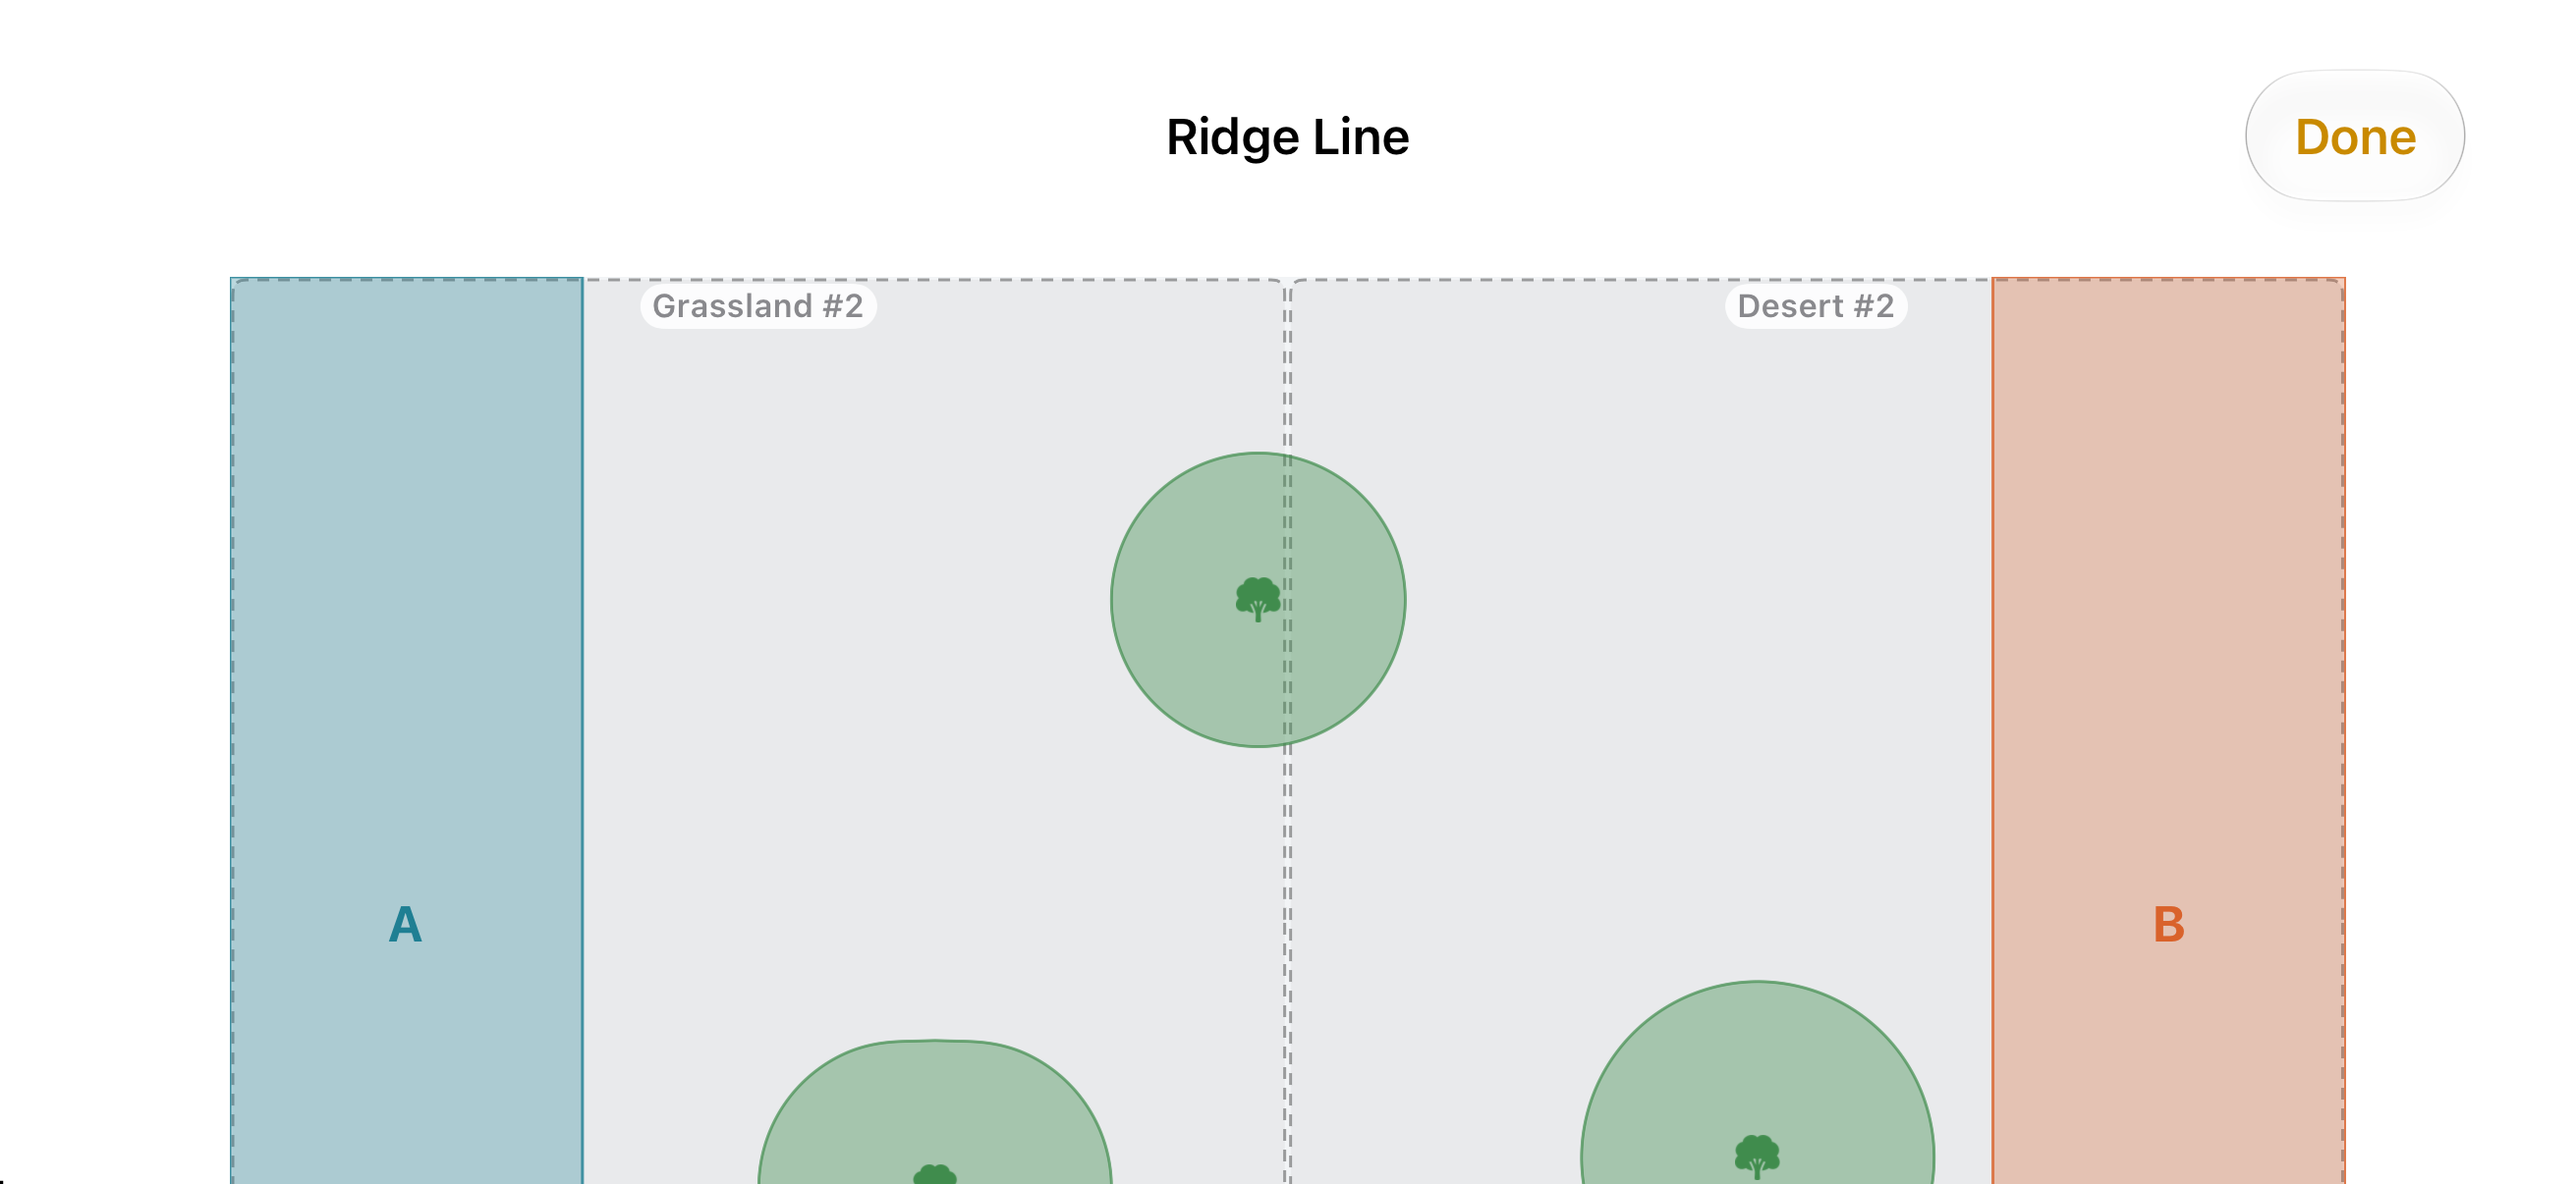
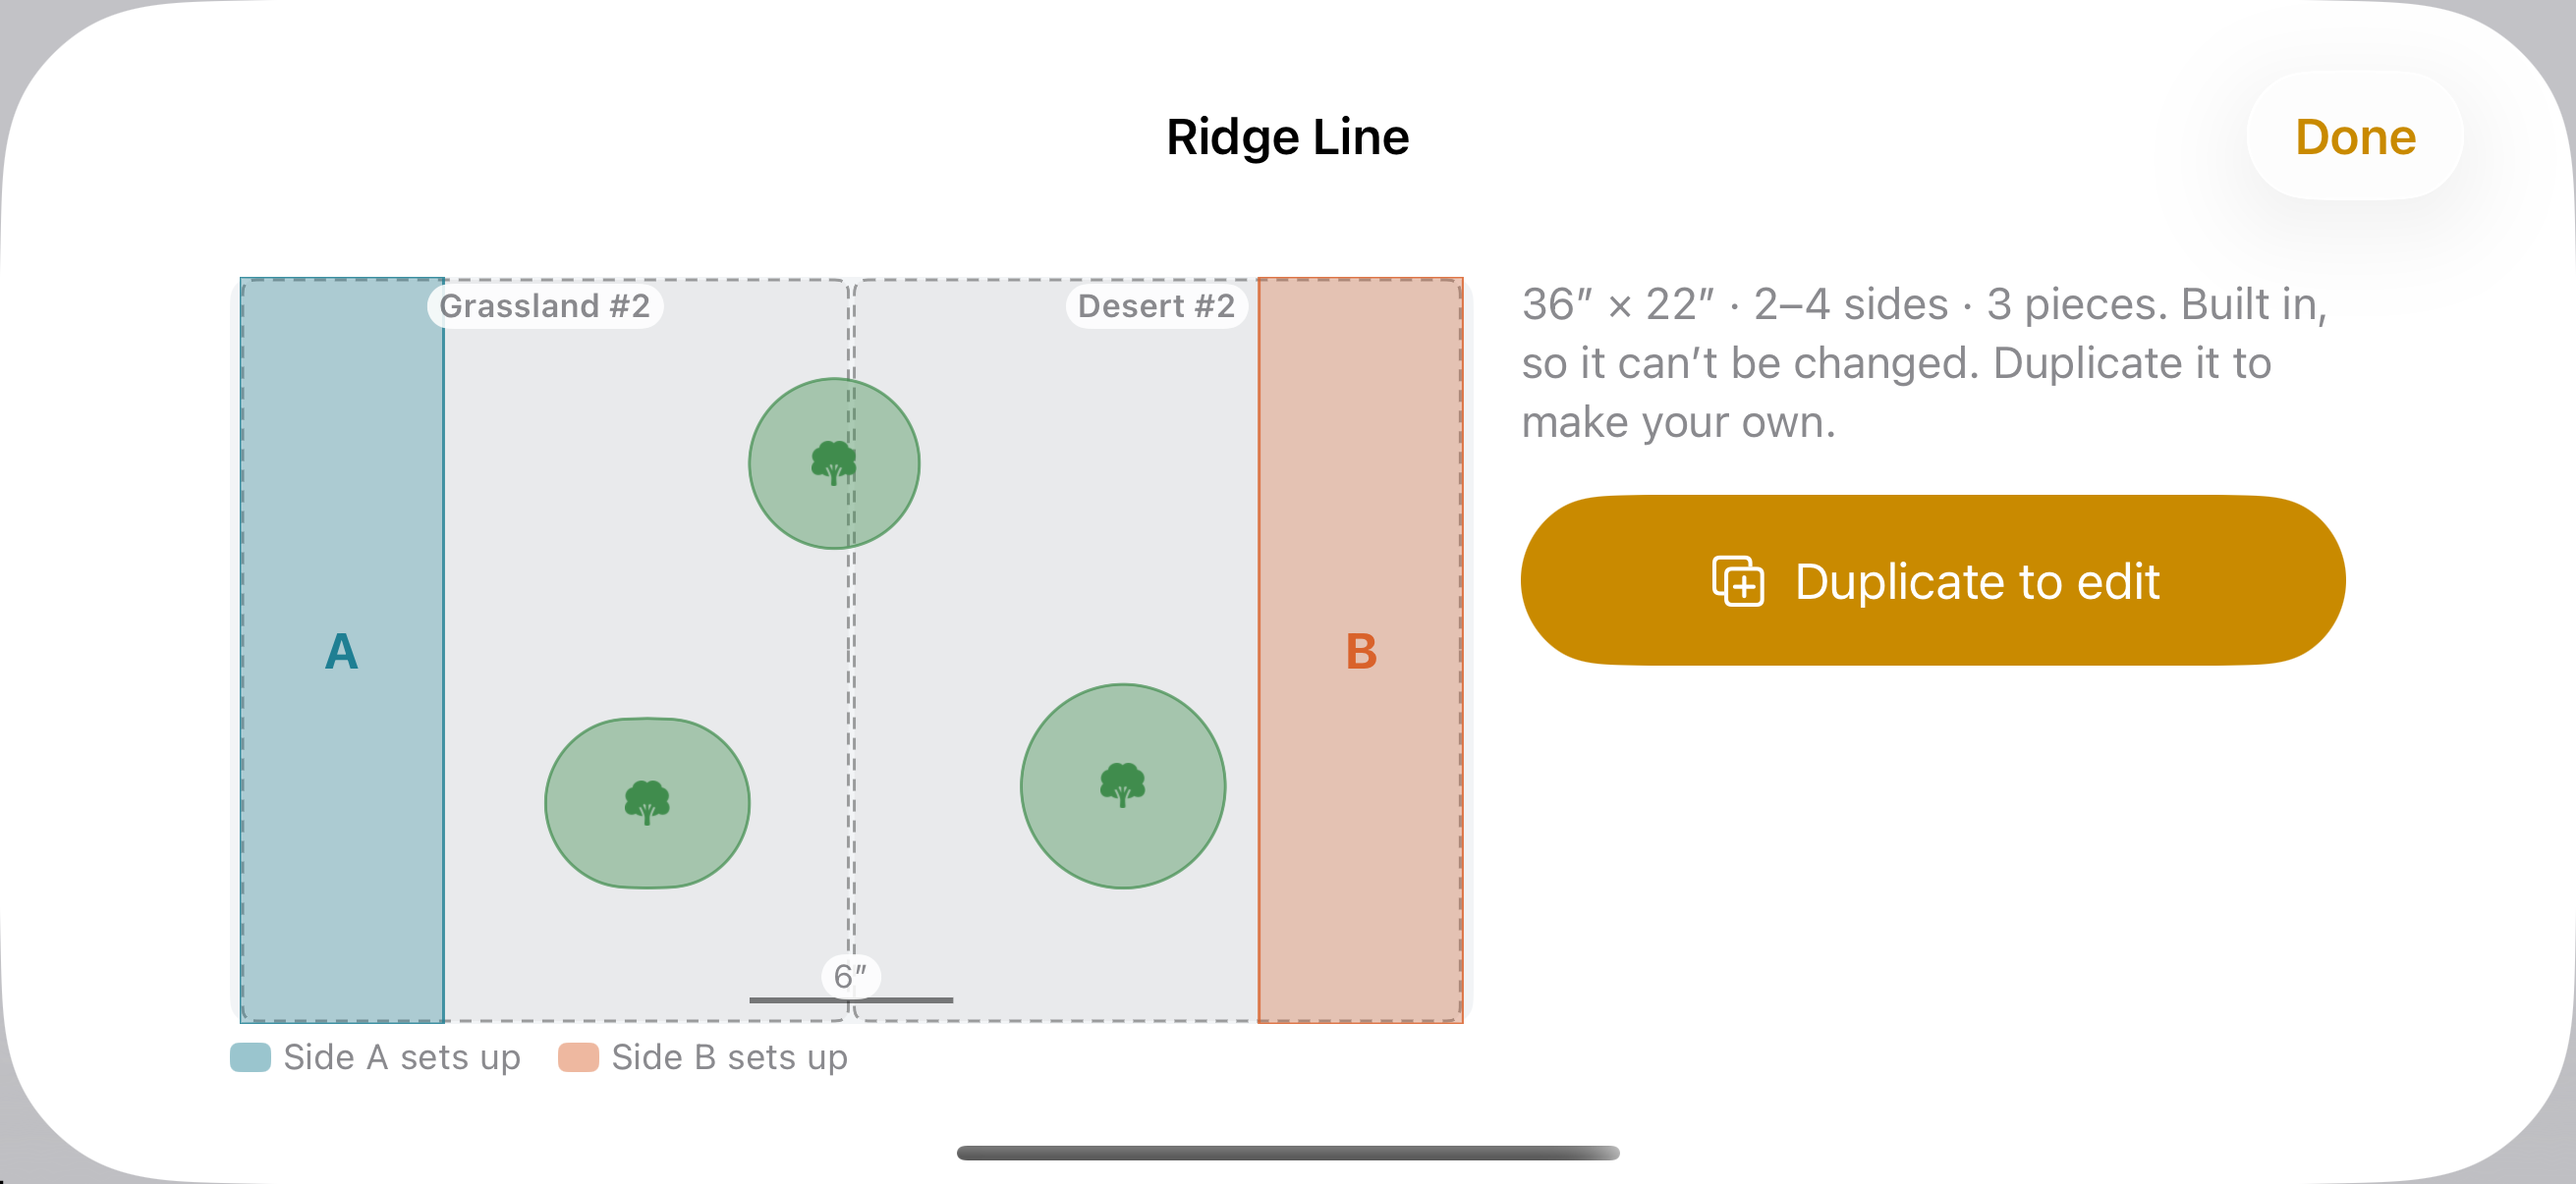
Starter board preview: fit board to width and height in landscape

diff --git a/Features/PlayMode/Board/PlayBoardsView.swift b/Features/PlayMode/Board/PlayBoardsView.swift
@@ -9,6 +9,7 @@ import MechBuddyDomain
 struct PlayBoardsView: View {
     var onPick: ((BoardLayout) -> Void)?
     @Environment(AppDependencies.self) private var dependencies
+    @Environment(\.verticalSizeClass) private var verticalSizeClass
 
     @State private var mine: [BoardLayout] = []
     @State private var starters: [BoardListEntry] = []
@@ -199,26 +200,47 @@ struct PlayBoardsView: View {
     }
 
     private func starterPreview(_ entry: BoardListEntry) -> some View {
-        NavigationStack {
-            ScrollView {
-                VStack(alignment: .leading, spacing: TMSpace.lg) {
-                    MissionLayoutView(board: PlayLayout.board(for: Battlefield(board: entry.board), sides: PlaySetup.pickup().sides))
-                        .accessibilityIdentifier("as.play.board.preview.layout")
-                    Text("\(BoardPresets.summary(entry.board)). Built in, so it can’t be changed. Duplicate it to make your own.")
-                        .font(TMFont.detail)
-                        .foregroundStyle(.secondary)
-                        .fixedSize(horizontal: false, vertical: true)
-                    Button {
-                        duplicate(entry.board)
-                        previewing = nil
-                    } label: {
-                        Label("Duplicate to edit", systemImage: "plus.square.on.square").frame(maxWidth: .infinity, minHeight: 44)
+        let note = Text("\(BoardPresets.summary(entry.board)). Built in, so it can’t be changed. Duplicate it to make your own.")
+            .font(TMFont.detail)
+            .foregroundStyle(.secondary)
+            .fixedSize(horizontal: false, vertical: true)
+        let duplicateButton = Button {
+            duplicate(entry.board)
+            previewing = nil
+        } label: {
+            Label("Duplicate to edit", systemImage: "plus.square.on.square").frame(maxWidth: .infinity, minHeight: 44)
+        }
+        .buttonStyle(.borderedProminent)
+        .tint(TMColor.signal)
+        .accessibilityIdentifier("as.play.board.preview.duplicate")
+        let layout = MissionLayoutView(board: PlayLayout.board(for: Battlefield(board: entry.board), sides: PlaySetup.pickup().sides))
+            .accessibilityIdentifier("as.play.board.preview.layout")
+        return NavigationStack {
+            Group {
+                if verticalSizeClass == .compact {
+                    // Landscape: board fitted to the full height beside the note and Duplicate action.
+                    HStack(alignment: .top, spacing: TMSpace.lg) {
+                        layout
+                            .frame(maxWidth: .infinity, maxHeight: .infinity)
+                        ScrollView {
+                            VStack(alignment: .leading, spacing: TMSpace.lg) {
+                                note
+                                duplicateButton
+                            }
+                        }
+                        .frame(maxWidth: 280)
                     }
-                    .buttonStyle(.borderedProminent)
-                    .tint(TMColor.signal)
-                    .accessibilityIdentifier("as.play.board.preview.duplicate")
+                    .padding(TMSpace.lg)
+                } else {
+                    ScrollView {
+                        VStack(alignment: .leading, spacing: TMSpace.lg) {
+                            layout
+                            note
+                            duplicateButton
+                        }
+                        .padding(TMSpace.lg)
+                    }
                 }
-                .padding(TMSpace.lg)
             }
             .navigationTitle(entry.name)
             .navigationBarTitleDisplayMode(.inline)
